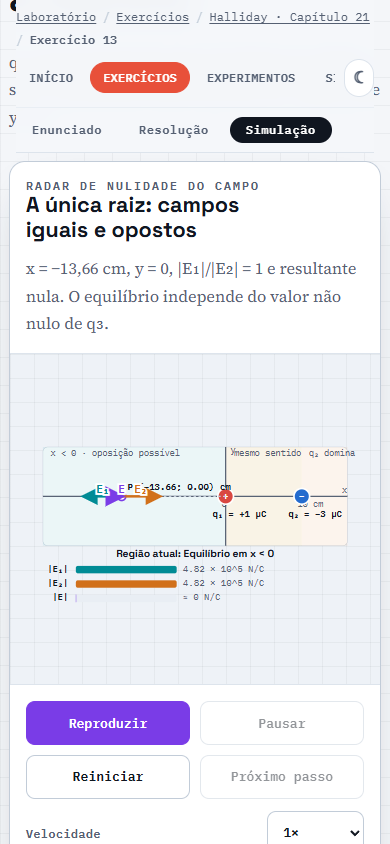
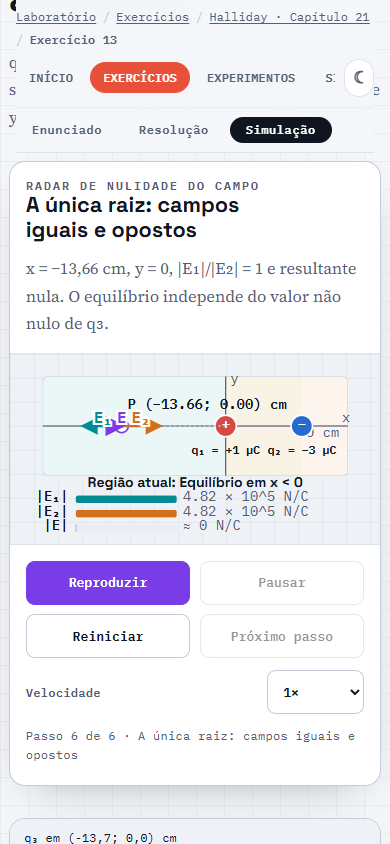
fix: improve Halliday 21.13 mobile legibility

diff --git a/site/exercicios/halliday-21-13/visualizacao.css b/site/exercicios/halliday-21-13/visualizacao.css
@@ -116,6 +116,10 @@
   font-weight: 600;
 }
 
+.equilibrium-geometry__source-label {
+  text-anchor: middle;
+}
+
 .equilibrium-geometry__region-label,
 .equilibrium-geometry__axis-label {
   fill: var(--ink-soft);
@@ -272,7 +276,14 @@
   }
 
   .equilibrium-geometry__canvas svg {
-    min-height: 330px;
+    width: 100%;
+    max-width: 100%;
+    min-height: 0;
+    margin-inline: 0;
+  }
+
+  .equilibrium-geometry__region-label {
+    display: none;
   }
 
   .equilibrium-geometry__axis,
@@ -281,24 +292,39 @@
     stroke-width: 3;
   }
 
-  .equilibrium-geometry__region-label,
   .equilibrium-geometry__axis-label {
-    font-size: 21px;
+    font-size: 34px;
   }
 
   .equilibrium-geometry__region-status {
-    font-size: 25px;
+    font-size: 34px;
   }
 
   .equilibrium-geometry__label,
   .equilibrium-geometry__bar-label,
   .equilibrium-geometry__bar-value {
-    font-size: 22px;
+    font-size: 34px;
+  }
+
+  .equilibrium-geometry__source-label {
+    font-size: 28px;
   }
 
   .equilibrium-geometry__vector-label {
-    font-size: 27px;
-    stroke-width: 8px;
+    font-size: 38px;
+    stroke-width: 10px;
+  }
+
+  .equilibrium-geometry__charge-sign {
+    font-size: 36px;
+  }
+
+  .equilibrium-geometry__charge {
+    r: 26px;
+  }
+
+  .equilibrium-geometry__candidate {
+    r: 16px;
   }
 
   .equilibrium-geometry__vector {

diff --git a/site/exercicios/halliday-21-13/index.html b/site/exercicios/halliday-21-13/index.html
@@ -334,10 +334,10 @@
 
               <circle class="equilibrium-geometry__charge equilibrium-geometry__charge--positive" cx="524" cy="175" r="19"></circle>
               <text class="equilibrium-geometry__charge-sign" x="524" y="182">+</text>
-              <text class="equilibrium-geometry__label" x="492" y="224">q₁ = +1 µC</text>
+              <text class="equilibrium-geometry__label equilibrium-geometry__source-label" x="524" y="244">q₁ = +1 µC</text>
               <circle class="equilibrium-geometry__charge equilibrium-geometry__charge--negative" cx="709" cy="175" r="19"></circle>
               <text class="equilibrium-geometry__charge-sign" x="709" y="182">−</text>
-              <text class="equilibrium-geometry__label" x="676" y="224">q₂ = −3 µC</text>
+              <text class="equilibrium-geometry__label equilibrium-geometry__source-label" x="709" y="244">q₂ = −3 µC</text>
 
               <line class="equilibrium-geometry__guide" data-guide-x x1="271.29" y1="100" x2="271.29" y2="175"></line>
               <line class="equilibrium-geometry__guide" data-guide-y x1="524" y1="100" x2="271.29" y2="100"></line>
